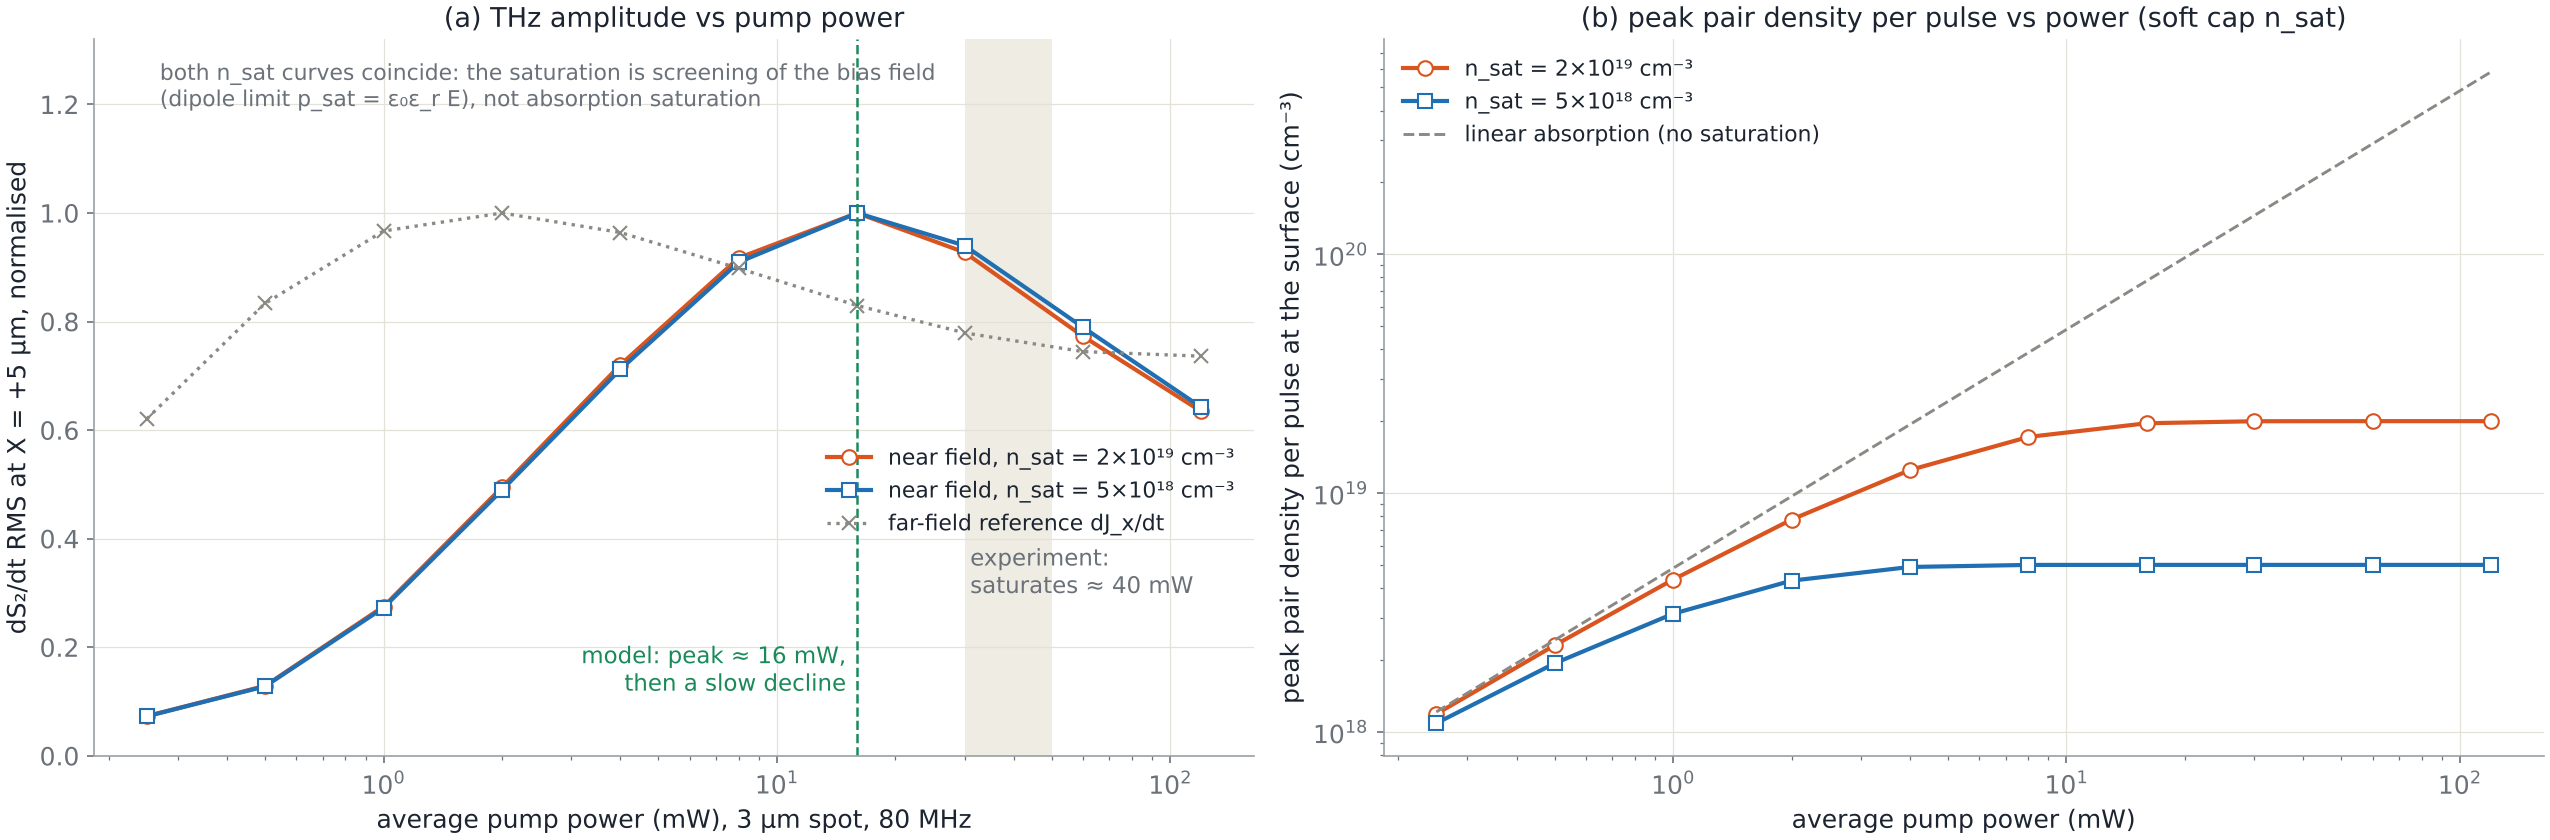
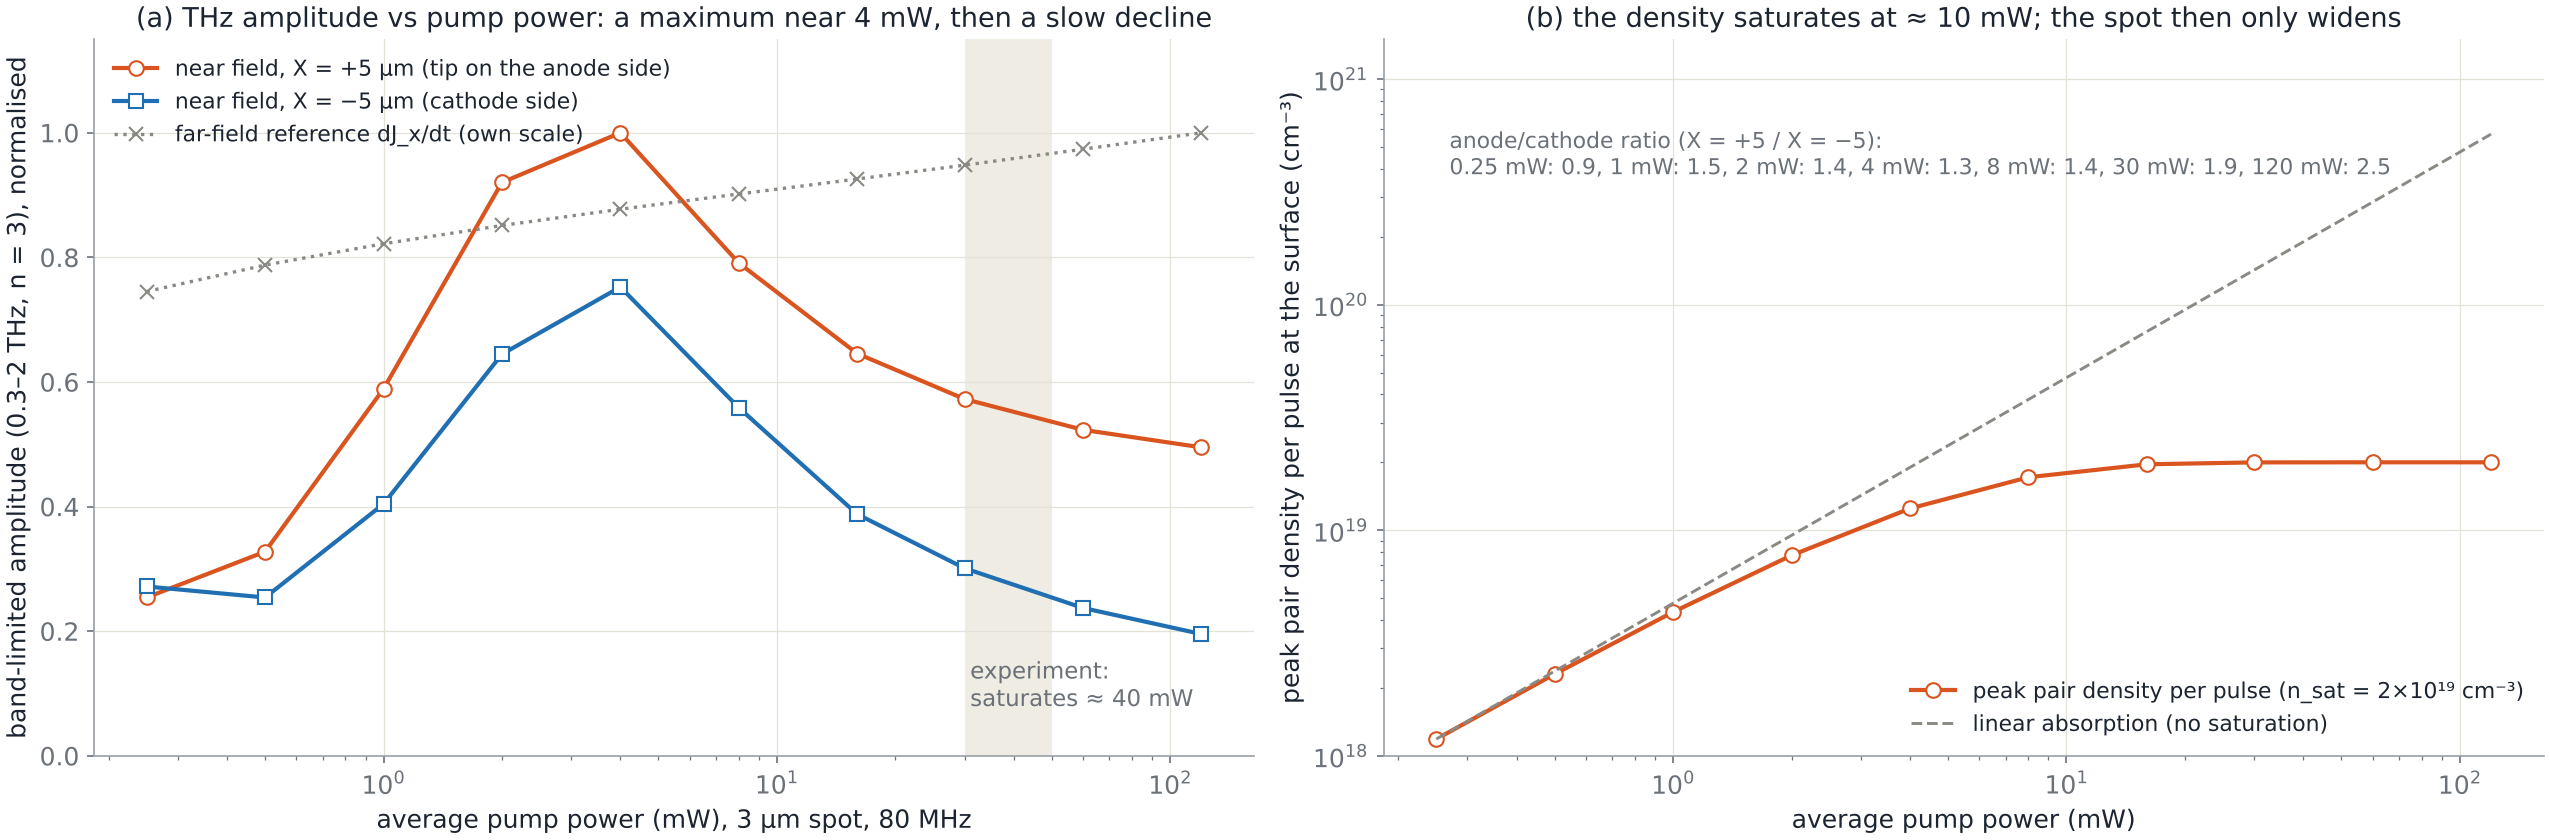
Power dependence at X = +5 and -5 with the band-limited metric; figure updated
Claude-Session: https://claude.ai/code/session_01FN7MpsobDfD5Gqf5WEx6oe

diff --git a/scripts/fig_slides.py b/scripts/fig_slides.py
@@ -328,28 +328,32 @@ def fig_dember():
 # ----------------------------------------------------------------------------- power dependence
 def fig_power():
     rows = {}
-    for key, fn in (("2e19", "power_dependence_X+5.0_nsat2e+19.json"), ("5e18", "power_dependence_X+5.0_nsat5e+18.json")):
-        rows[key] = json.load(open(os.path.join(ROOT, "results", "pulse_chain", fn)))
+    for key, fn in (("+5", "power_dependence_X+5.0_nsat2e+19.json"), ("-5", "power_dependence_X-5.0_nsat2e+19.json")):
+        rows[key] = json.load(open(os.path.join(ROOT, "results", "pulse_chain", "power", fn)))
     fig, axs = plt.subplots(1, 2, figsize=(17, 5.6), constrained_layout=True)
     ax = axs[0]
-    for key, col, mk, lab in (("2e19", C["orange"], "o", "near field, n_sat = 2×10¹⁹ cm⁻³"), ("5e18", C["blue"], "s", "near field, n_sat = 5×10¹⁸ cm⁻³")):
-        P = np.array([r["P_mW"] for r in rows[key]]); y = np.array([r["dS2dt_rms"] for r in rows[key]])
-        ax.semilogx(P, y / y.max(), color=col, lw=2, marker=mk, ms=7, mfc="white", label=lab)
-    P = np.array([r["P_mW"] for r in rows["2e19"]]); y = np.array([r["dJxdt_rms"] for r in rows["2e19"]])
-    ax.semilogx(P, y / y.max(), color=C["grey"], lw=1.6, ls=":", marker="x", ms=7, label="far-field reference dJ_x/dt")
-    ax.axvline(16, color=C["green"], lw=1.2, ls="--"); ax.text(15, 0.12, "model: peak ≈ 16 mW,\nthen a slow decline", color=C["green"], fontsize=11, ha="right")
-    ax.text(0.27, 1.28, "both n_sat curves coincide: the saturation is screening of the bias field\n(dipole limit p_sat = ε₀ε_r E), not absorption saturation", fontsize=10.5, color=C["muted"], va="top")
-    ax.axvspan(30, 50, color="#ece8de", alpha=0.8, lw=0); ax.text(31, 0.3, "experiment:\nsaturates ≈ 40 mW", color=C["muted"], fontsize=11)
-    ax.set_xlabel("average pump power (mW), 3 µm spot, 80 MHz"); ax.set_ylabel("dS₂/dt RMS at X = +5 µm, normalised")
-    ax.set_title("(a) THz amplitude vs pump power"); ax.legend(loc="lower right", bbox_to_anchor=(1.0, 0.28)); ax.set_ylim(0, 1.32)
+    ref = max(r["det3_band"] for r in rows["+5"])
+    for key, col, mk, lab in (("+5", C["orange"], "o", "near field, X = +5 µm (tip on the anode side)"), ("-5", C["blue"], "s", "near field, X = −5 µm (cathode side)")):
+        P = np.array([r["P_mW"] for r in rows[key]]); y = np.array([r["det3_band"] for r in rows[key]])
+        ax.semilogx(P, y / ref, color=col, lw=2, marker=mk, ms=7, mfc="white", label=lab)
+    P = np.array([r["P_mW"] for r in rows["+5"]]); y = np.array([r["far_band"] for r in rows["+5"]])
+    ax.semilogx(P, y / y.max(), color=C["grey"], lw=1.6, ls=":", marker="x", ms=7, label="far-field reference dJ_x/dt (own scale)")
+    ax.axvspan(30, 50, color="#ece8de", alpha=0.8, lw=0); ax.text(31, 0.08, "experiment:\nsaturates ≈ 40 mW", color=C["muted"], fontsize=11)
+    ax.set_xlabel("average pump power (mW), 3 µm spot, 80 MHz"); ax.set_ylabel("band-limited amplitude (0.3–2 THz, n = 3), normalised")
+    ax.set_title("(a) THz amplitude vs pump power: a maximum near 4 mW, then a slow decline"); ax.legend(loc="upper left"); ax.set_ylim(0, 1.15)
     ax = axs[1]
-    for key, col, mk, lab in (("2e19", C["orange"], "o", "n_sat = 2×10¹⁹ cm⁻³"), ("5e18", C["blue"], "s", "n_sat = 5×10¹⁸ cm⁻³")):
-        P = np.array([r["P_mW"] for r in rows[key]]); Ns = np.array([r["N_surface"] for r in rows[key]])
-        ax.loglog(P, Ns, color=col, lw=2, marker=mk, ms=7, mfc="white", label=lab)
-    Nlin = rows["2e19"][0]["N_surface"] / rows["2e19"][0]["P_mW"] * P * 1.02
+    P = np.array([r["P_mW"] for r in rows["+5"]]); Ns = np.array([r["N_surface"] for r in rows["+5"]])
+    ax.loglog(P, Ns, color=C["orange"], lw=2, marker="o", ms=7, mfc="white", label="peak pair density per pulse (n_sat = 2×10¹⁹ cm⁻³)")
+    Nlin = Ns[0] / P[0] * P
     ax.loglog(P, Nlin, color=C["grey"], lw=1.4, ls="--", label="linear absorption (no saturation)")
+    r = np.array([r["det3_band"] for r in rows["+5"]]) / np.array([r["det3_band"] for r in rows["-5"]])
+    ax2 = ax.twinx() if False else None
     ax.set_xlabel("average pump power (mW)"); ax.set_ylabel("peak pair density per pulse at the surface (cm⁻³)")
-    ax.set_title("(b) peak pair density per pulse vs power (soft cap n_sat)"); ax.legend(loc="upper left")
+    ax.set_title("(b) the density saturates at ≈ 10 mW; the spot then only widens"); ax.legend(loc="lower right"); ax.set_ylim(1e18, 1.5e21)
+    for Pv, rv in zip(P, r):
+        pass
+    ax.text(0.27, 6e20, "anode/cathode ratio (X = +5 / X = −5):\n" + ", ".join(f"{Pv:g} mW: {rv:.1f}" for Pv, rv in zip(P, r) if Pv in (0.25, 1, 2, 4, 8, 30, 120)),
+            fontsize=10.5, color=C["muted"], va="top")
     fig.savefig(os.path.join(OUT, "sim_power.png"), dpi=150)
     plt.close(fig)
 
